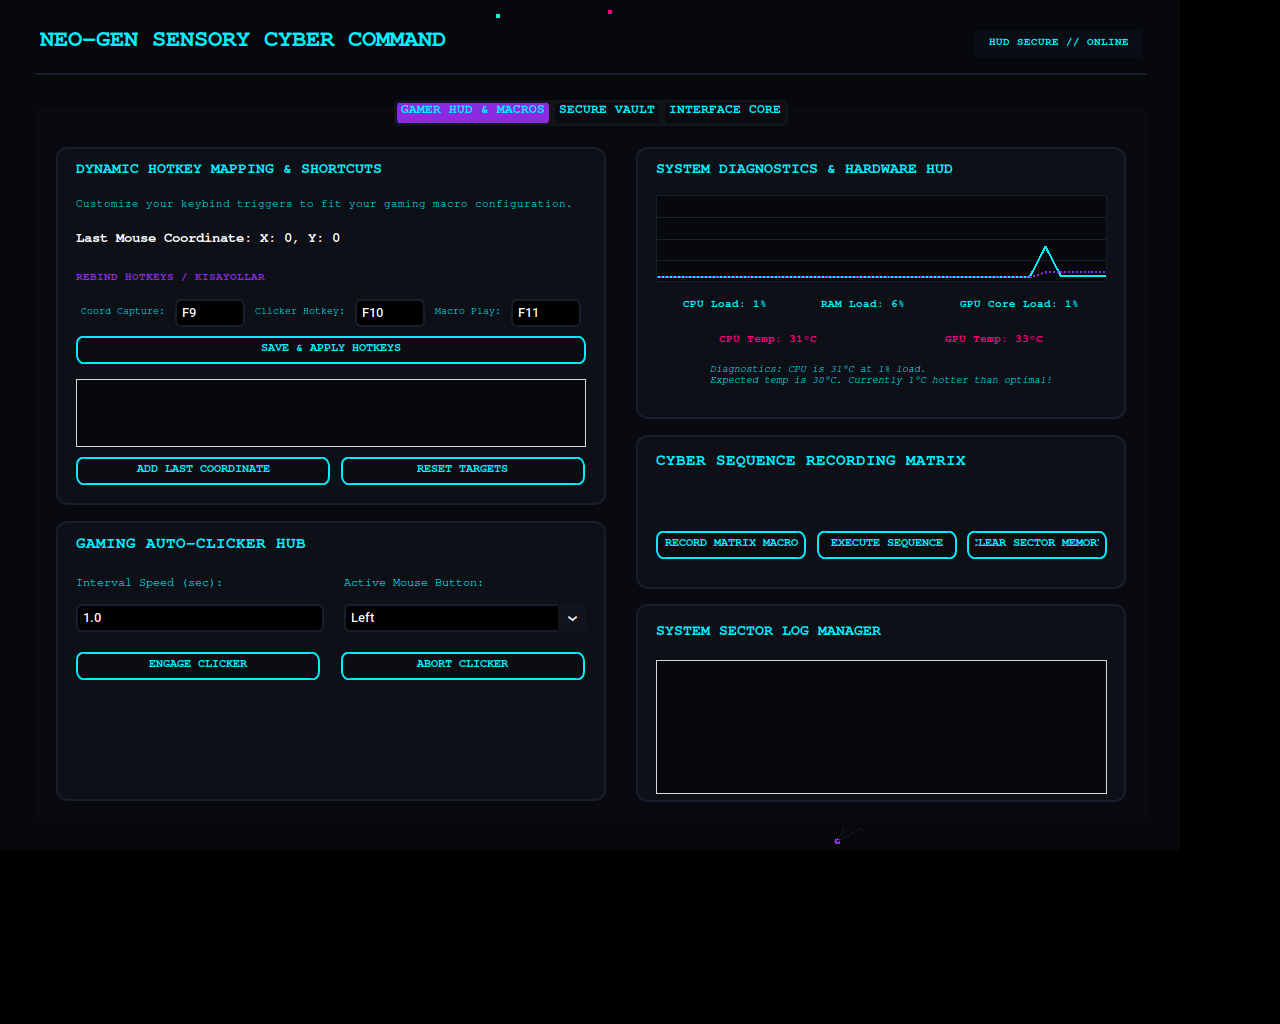
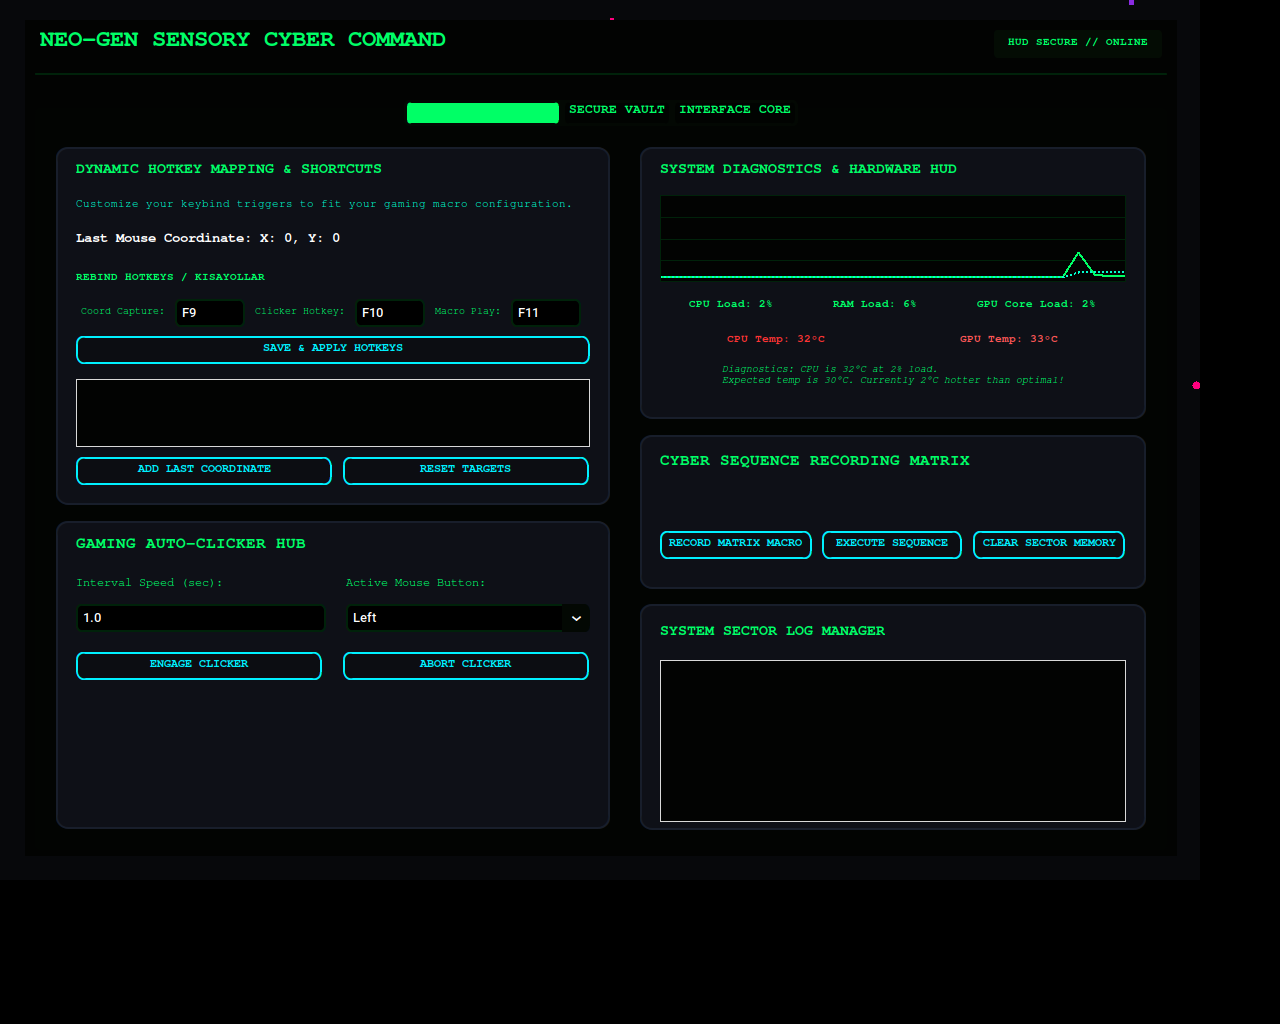
feat: build next-gen modern gaming HUD command center PC Toolbox from scratch

diff --git a/pc_toolbox/main.py b/pc_toolbox/main.py
@@ -14,7 +14,7 @@ import time
 from PIL import Image, ImageGrab
 
 from i18n import I18N
-from widgets import CyberSpaceCanvas, ScanningEffect, CyberButton, CyberCard
+from widgets import DigitalRainCanvas, ScanningEffect, CyberButton, CyberCard
 from automation import GlobalHotkeyTracker, AutoClicker, MacroRecorder, SmartClipboard
 from vault import SecureVault
 
@@ -30,8 +30,8 @@ class NeoGenCyberToolbox(ctk.CTk):
 
         # Configure advanced layout properties
         self.title("NEO-GEN SENSORY CYBER COMMAND")
-        self.geometry("1180x850")
-        self.configure(fg_color="#07080b")
+        self.geometry("1200x880")
+        self.configure(fg_color="#020302")
 
         # Initialize core state and logic modules
         self.i18n = I18N("en")
@@ -64,7 +64,7 @@ class NeoGenCyberToolbox(ctk.CTk):
 
         # Set modern dark blue/violet cyberpunk palette variables
         ctk.set_appearance_mode("Dark")
-        ctk.set_default_color_theme("blue")
+        ctk.set_default_color_theme("green")
 
         self.build_ui()
 
@@ -77,7 +77,7 @@ class NeoGenCyberToolbox(ctk.CTk):
 
     def build_ui(self):
         # Breathtaking background dynamic vector space canvas
-        self.bg_canvas = CyberSpaceCanvas(self)
+        self.bg_canvas = DigitalRainCanvas(self)
         self.bg_canvas.place(x=0, y=0, relwidth=1, relheight=1)
 
         # Main overlay container frame
@@ -92,7 +92,7 @@ class NeoGenCyberToolbox(ctk.CTk):
             header_frame,
             text=self.i18n.get("app_title"),
             font=("Segoe UI Semibold" if os.name == "nt" else "Courier", 24, "bold"),
-            text_color="#00f0ff"
+            text_color="#00ff66"
         )
         self.title_label.pack(side="left", padx=15)
 
@@ -101,8 +101,8 @@ class NeoGenCyberToolbox(ctk.CTk):
             header_frame,
             text="HUD SECURE // ONLINE",
             font=("Consolas" if os.name == "nt" else "Courier", 11, "bold"),
-            text_color="#00f0ff",
-            fg_color="#090d16",
+            text_color="#00ff66",
+            fg_color="#040c04",
             corner_radius=4,
             padx=10,
             pady=4
@@ -110,19 +110,19 @@ class NeoGenCyberToolbox(ctk.CTk):
         self.hud_status_lbl.pack(side="right", padx=15)
 
         # Glowing divider
-        divider = ctk.CTkFrame(self.main_container, height=2, fg_color="#181e2b")
+        divider = ctk.CTkFrame(self.main_container, height=2, fg_color="#00220a")
         divider.pack(fill="x", padx=10, pady=(0, 10))
 
         # Breathtaking Spacious TabView controller
         self.tab_view = ctk.CTkTabview(
             self.main_container,
-            fg_color="#090a0f",
-            segmented_button_fg_color="#12141c",
-            segmented_button_selected_color="#8a2be2",
-            segmented_button_selected_hover_color="#00f0ff",
-            segmented_button_unselected_color="#0a0b10",
-            segmented_button_unselected_hover_color="#181e2b",
-            text_color="#00f0ff"
+            fg_color="#020402",
+            segmented_button_fg_color="#030803",
+            segmented_button_selected_color="#00ff66",
+            segmented_button_selected_hover_color="#00ffcc",
+            segmented_button_unselected_color="#010301",
+            segmented_button_unselected_hover_color="#00220a",
+            text_color="#00ff66"
         )
         self.tab_view._segmented_button.configure(font=("Segoe UI Semibold" if os.name == "nt" else "Courier", 13, "bold"))
         self.tab_view.pack(fill="both", expand=True, padx=10, pady=5)
@@ -145,40 +145,40 @@ class NeoGenCyberToolbox(ctk.CTk):
         card_hk = CyberCard(left_panel)
         card_hk.pack(fill="x", pady=(0, 15), ipady=8)
 
-        self.f9_title = ctk.CTkLabel(card_hk, text="", font=("Courier", 15, "bold"), text_color="#00f0ff")
+        self.f9_title = ctk.CTkLabel(card_hk, text="", font=("Courier", 15, "bold"), text_color="#00ff66")
         self.f9_title.pack(anchor="w", padx=20, pady=(10, 5))
 
-        self.f9_info = ctk.CTkLabel(card_hk, text="", font=("Courier", 11), text_color="#00f0ff", justify="left")
+        self.f9_info = ctk.CTkLabel(card_hk, text="", font=("Courier", 11), text_color="#00ffcc", justify="left")
         self.f9_info.pack(anchor="w", padx=20, pady=2)
 
         self.f9_coords_lbl = ctk.CTkLabel(card_hk, text="", font=("Courier", 14, "bold"), text_color="#ffffff")
         self.f9_coords_lbl.pack(anchor="w", padx=20, pady=(5, 5))
 
         # Dynamic Keybind configuration panel inside the UI
-        self.hk_setup_title = ctk.CTkLabel(card_hk, text="REBIND HOTKEYS / KISAYOLLAR", font=("Courier", 11, "bold"), text_color="#8a2be2")
+        self.hk_setup_title = ctk.CTkLabel(card_hk, text="REBIND HOTKEYS / KISAYOLLAR", font=("Courier", 11, "bold"), text_color="#00ff66")
         self.hk_setup_title.pack(anchor="w", padx=20, pady=(5, 2))
 
         hk_entry_frame = ctk.CTkFrame(card_hk, fg_color="transparent")
         hk_entry_frame.pack(fill="x", padx=20, pady=2)
 
         # Entry for F9 Coord
-        coord_ent_lbl = ctk.CTkLabel(hk_entry_frame, text="Coord Capture:", font=("Courier", 10), text_color="#00f0ff")
+        coord_ent_lbl = ctk.CTkLabel(hk_entry_frame, text="Coord Capture:", font=("Courier", 10), text_color="#00ff66")
         coord_ent_lbl.grid(row=0, column=0, padx=5, pady=2, sticky="w")
-        self.coord_ent_val = ctk.CTkEntry(hk_entry_frame, width=70, fg_color="#000000", border_color="#181e2b", text_color="#ffffff")
+        self.coord_ent_val = ctk.CTkEntry(hk_entry_frame, width=70, fg_color="#000000", border_color="#00220a", text_color="#ffffff")
         self.coord_ent_val.insert(0, "F9")
         self.coord_ent_val.grid(row=0, column=1, padx=5, pady=2)
 
         # Entry for F10 Clicker
-        click_ent_lbl = ctk.CTkLabel(hk_entry_frame, text="Clicker Hotkey:", font=("Courier", 10), text_color="#00f0ff")
+        click_ent_lbl = ctk.CTkLabel(hk_entry_frame, text="Clicker Hotkey:", font=("Courier", 10), text_color="#00ff66")
         click_ent_lbl.grid(row=0, column=2, padx=5, pady=2, sticky="w")
-        self.click_ent_val = ctk.CTkEntry(hk_entry_frame, width=70, fg_color="#000000", border_color="#181e2b", text_color="#ffffff")
+        self.click_ent_val = ctk.CTkEntry(hk_entry_frame, width=70, fg_color="#000000", border_color="#00220a", text_color="#ffffff")
         self.click_ent_val.insert(0, "F10")
         self.click_ent_val.grid(row=0, column=3, padx=5, pady=2)
 
         # Entry for F11 Macro
-        macro_ent_lbl = ctk.CTkLabel(hk_entry_frame, text="Macro Play:", font=("Courier", 10), text_color="#00f0ff")
+        macro_ent_lbl = ctk.CTkLabel(hk_entry_frame, text="Macro Play:", font=("Courier", 10), text_color="#00ff66")
         macro_ent_lbl.grid(row=0, column=4, padx=5, pady=2, sticky="w")
-        self.macro_ent_val = ctk.CTkEntry(hk_entry_frame, width=70, fg_color="#000000", border_color="#181e2b", text_color="#ffffff")
+        self.macro_ent_val = ctk.CTkEntry(hk_entry_frame, width=70, fg_color="#000000", border_color="#00220a", text_color="#ffffff")
         self.macro_ent_val.insert(0, "F11")
         self.macro_ent_val.grid(row=0, column=5, padx=5, pady=2)
 
@@ -188,11 +188,11 @@ class NeoGenCyberToolbox(ctk.CTk):
         # Coordinates Multi-target Sequence list
         self.seq_listbox = tk.Listbox(
             card_hk,
-            bg="#07080b",
-            fg="#00f0ff",
-            selectbackground="#8a2be2",
-            selectforeground="#ffffff",
-            highlightcolor="#00f0ff",
+            bg="#020302",
+            fg="#00ff66",
+            selectbackground="#00ffcc",
+            selectforeground="#020302",
+            highlightcolor="#00ff66",
             height=4,
             borderwidth=1,
             relief="flat",
@@ -211,7 +211,7 @@ class NeoGenCyberToolbox(ctk.CTk):
         card_clicker = CyberCard(left_panel)
         card_clicker.pack(fill="both", expand=True, ipady=10)
 
-        self.click_title = ctk.CTkLabel(card_clicker, text="", font=("Courier", 16, "bold"), text_color="#00f0ff")
+        self.click_title = ctk.CTkLabel(card_clicker, text="", font=("Courier", 16, "bold"), text_color="#00ff66")
         self.click_title.pack(anchor="w", padx=20, pady=(12, 5))
 
         inputs_frame = ctk.CTkFrame(card_clicker, fg_color="transparent")
@@ -219,17 +219,17 @@ class NeoGenCyberToolbox(ctk.CTk):
 
         int_frame = ctk.CTkFrame(inputs_frame, fg_color="transparent")
         int_frame.pack(side="left", fill="x", expand=True, padx=(0, 10))
-        self.lbl_interval = ctk.CTkLabel(int_frame, text="", font=("Courier", 12), text_color="#00f0ff")
+        self.lbl_interval = ctk.CTkLabel(int_frame, text="", font=("Courier", 12), text_color="#00ff66")
         self.lbl_interval.pack(anchor="w")
-        self.click_interval_ent = ctk.CTkEntry(int_frame, placeholder_text="1.0", fg_color="#000000", border_color="#181e2b", text_color="#ffffff")
+        self.click_interval_ent = ctk.CTkEntry(int_frame, placeholder_text="1.0", fg_color="#000000", border_color="#00220a", text_color="#ffffff")
         self.click_interval_ent.insert(0, "1.0")
         self.click_interval_ent.pack(fill="x", pady=5)
 
         type_frame = ctk.CTkFrame(inputs_frame, fg_color="transparent")
         type_frame.pack(side="right", fill="x", expand=True, padx=(10, 0))
-        self.lbl_click_type = ctk.CTkLabel(type_frame, text="", font=("Courier", 12), text_color="#00f0ff")
+        self.lbl_click_type = ctk.CTkLabel(type_frame, text="", font=("Courier", 12), text_color="#00ff66")
         self.lbl_click_type.pack(anchor="w")
-        self.click_type_combo = ctk.CTkComboBox(type_frame, values=["Left", "Right"], fg_color="#000000", border_color="#181e2b", button_color="#12141c", button_hover_color="#181e2b", text_color="#ffffff")
+        self.click_type_combo = ctk.CTkComboBox(type_frame, values=["Left", "Right"], fg_color="#000000", border_color="#00220a", button_color="#030803", button_hover_color="#00220a", text_color="#ffffff")
         self.click_type_combo.pack(fill="x", pady=5)
 
         btn_click_frame = ctk.CTkFrame(card_clicker, fg_color="transparent")
@@ -249,43 +249,43 @@ class NeoGenCyberToolbox(ctk.CTk):
         card_hw = CyberCard(right_panel)
         card_hw.pack(fill="x", pady=(0, 15), ipady=10)
 
-        self.hw_title_lbl = ctk.CTkLabel(card_hw, text="", font=("Courier", 15, "bold"), text_color="#00f0ff")
+        self.hw_title_lbl = ctk.CTkLabel(card_hw, text="", font=("Courier", 15, "bold"), text_color="#00ff66")
         self.hw_title_lbl.pack(anchor="w", padx=20, pady=(10, 5))
 
         # Dynamic Canvas for Visual Charts drawing
-        self.hw_chart_canvas = tk.Canvas(card_hw, height=85, bg="#07080b", highlightthickness=1, highlightbackground="#181e2b")
+        self.hw_chart_canvas = tk.Canvas(card_hw, height=85, bg="#020302", highlightthickness=1, highlightbackground="#00220a")
         self.hw_chart_canvas.pack(fill="x", padx=20, pady=5)
 
         # Numeric values HUD supporting CPU and GPU load metrics
         nums_frame = ctk.CTkFrame(card_hw, fg_color="transparent")
         nums_frame.pack(fill="x", padx=20, pady=5)
 
-        self.hw_cpu_lbl = ctk.CTkLabel(nums_frame, text="CPU Load: --%", font=("Courier", 11, "bold"), text_color="#00f0ff")
+        self.hw_cpu_lbl = ctk.CTkLabel(nums_frame, text="CPU Load: --%", font=("Courier", 11, "bold"), text_color="#00ff66")
         self.hw_cpu_lbl.pack(side="left", fill="x", expand=True)
-        self.hw_ram_lbl = ctk.CTkLabel(nums_frame, text="RAM: --%", font=("Courier", 11, "bold"), text_color="#00f0ff")
+        self.hw_ram_lbl = ctk.CTkLabel(nums_frame, text="RAM: --%", font=("Courier", 11, "bold"), text_color="#00ff66")
         self.hw_ram_lbl.pack(side="left", fill="x", expand=True)
-        self.hw_gpu_lbl = ctk.CTkLabel(nums_frame, text="GPU Load: --%", font=("Courier", 11, "bold"), text_color="#00f0ff")
+        self.hw_gpu_lbl = ctk.CTkLabel(nums_frame, text="GPU Load: --%", font=("Courier", 11, "bold"), text_color="#00ff66")
         self.hw_gpu_lbl.pack(side="left", fill="x", expand=True)
 
         temps_frame = ctk.CTkFrame(card_hw, fg_color="transparent")
         temps_frame.pack(fill="x", padx=20, pady=2)
-        self.hw_temp_lbl = ctk.CTkLabel(temps_frame, text="CPU Temp: --°C", font=("Courier", 11, "bold"), text_color="#ff007f")
+        self.hw_temp_lbl = ctk.CTkLabel(temps_frame, text="CPU Temp: --°C", font=("Courier", 11, "bold"), text_color="#ff3333")
         self.hw_temp_lbl.pack(side="left", fill="x", expand=True)
-        self.hw_gpu_temp_lbl = ctk.CTkLabel(temps_frame, text="GPU Temp: --°C", font=("Courier", 11, "bold"), text_color="#ff007f")
+        self.hw_gpu_temp_lbl = ctk.CTkLabel(temps_frame, text="GPU Temp: --°C", font=("Courier", 11, "bold"), text_color="#ff5555")
         self.hw_gpu_temp_lbl.pack(side="right", fill="x", expand=True)
 
         # Humanized dynamic comparative system diagnostics feedback text
-        self.hw_feedback_lbl = ctk.CTkLabel(card_hw, text="CPU: % -- load under --°C", font=("Courier", 10, "italic"), text_color="#00f0ff", justify="left")
+        self.hw_feedback_lbl = ctk.CTkLabel(card_hw, text="CPU: % -- load under --°C", font=("Courier", 10, "italic"), text_color="#00ff66", justify="left")
         self.hw_feedback_lbl.pack(fill="x", padx=20, pady=(5, 10))
 
         # Card 3: Macro Sequence Recorder
         card_macro = CyberCard(right_panel)
         card_macro.pack(fill="x", pady=(0, 15), ipady=10)
 
-        self.macro_lbl = ctk.CTkLabel(card_macro, text="", font=("Courier", 16, "bold"), text_color="#00f0ff")
+        self.macro_lbl = ctk.CTkLabel(card_macro, text="", font=("Courier", 16, "bold"), text_color="#00ff66")
         self.macro_lbl.pack(anchor="w", padx=20, pady=(15, 5))
 
-        self.macro_status_lbl = ctk.CTkLabel(card_macro, text="", font=("Courier", 12, "italic"), text_color="#00f0ff")
+        self.macro_status_lbl = ctk.CTkLabel(card_macro, text="", font=("Courier", 12, "italic"), text_color="#00ff66")
         self.macro_status_lbl.pack(anchor="w", padx=20, pady=5)
 
         btn_macro_frame = ctk.CTkFrame(card_macro, fg_color="transparent")
@@ -304,16 +304,16 @@ class NeoGenCyberToolbox(ctk.CTk):
         card_utilities = CyberCard(right_panel)
         card_utilities.pack(fill="both", expand=True, ipady=10)
 
-        self.clip_lbl = ctk.CTkLabel(card_utilities, text="", font=("Courier", 15, "bold"), text_color="#00f0ff")
+        self.clip_lbl = ctk.CTkLabel(card_utilities, text="", font=("Courier", 15, "bold"), text_color="#00ff66")
         self.clip_lbl.pack(anchor="w", padx=20, pady=(15, 5))
 
         self.clip_listbox = tk.Listbox(
             card_utilities,
-            bg="#07080b",
-            fg="#00f0ff",
-            selectbackground="#8a2be2",
-            selectforeground="#ffffff",
-            highlightcolor="#00f0ff",
+            bg="#020302",
+            fg="#00ff66",
+            selectbackground="#00ffcc",
+            selectforeground="#020302",
+            highlightcolor="#00ffcc",
             borderwidth=1,
             relief="flat",
             font=("Courier", 10, "bold")
@@ -345,17 +345,17 @@ class NeoGenCyberToolbox(ctk.CTk):
         card_crypto = CyberCard(v_left)
         card_crypto.pack(fill="both", expand=True, pady=(0, 15), ipady=10)
 
-        self.enc_title_lbl = ctk.CTkLabel(card_crypto, text="", font=("Courier", 16, "bold"), text_color="#00f0ff")
+        self.enc_title_lbl = ctk.CTkLabel(card_crypto, text="", font=("Courier", 16, "bold"), text_color="#00ff66")
         self.enc_title_lbl.pack(anchor="w", padx=20, pady=(15, 10))
 
-        self.key_lbl_title = ctk.CTkLabel(card_crypto, text="", font=("Courier", 12), text_color="#00f0ff")
+        self.key_lbl_title = ctk.CTkLabel(card_crypto, text="", font=("Courier", 12), text_color="#00ff66")
         self.key_lbl_title.pack(anchor="w", padx=20)
-        self.vault_key_ent = ctk.CTkEntry(card_crypto, show="*", fg_color="#000000", border_color="#181e2b", text_color="#ffffff")
+        self.vault_key_ent = ctk.CTkEntry(card_crypto, show="*", fg_color="#000000", border_color="#00220a", text_color="#ffffff")
         self.vault_key_ent.pack(fill="x", padx=20, pady=5)
 
-        self.msg_input_lbl = ctk.CTkLabel(card_crypto, text="", font=("Courier", 12), text_color="#00f0ff")
+        self.msg_input_lbl = ctk.CTkLabel(card_crypto, text="", font=("Courier", 12), text_color="#00ffcc")
         self.msg_input_lbl.pack(anchor="w", padx=20)
-        self.vault_text_box = ctk.CTkTextbox(card_crypto, height=130, fg_color="#000000", border_color="#181e2b", border_width=1, text_color="#ffffff", font=("Courier", 11, "bold"))
+        self.vault_text_box = ctk.CTkTextbox(card_crypto, height=130, fg_color="#000000", border_color="#00220a", border_width=1, text_color="#ffffff", font=("Courier", 11, "bold"))
         self.vault_text_box.pack(fill="both", expand=True, padx=20, pady=5)
 
         crypto_btns = ctk.CTkFrame(card_crypto, fg_color="transparent")
@@ -369,10 +369,10 @@ class NeoGenCyberToolbox(ctk.CTk):
         card_archive = CyberCard(v_left)
         card_archive.pack(fill="x", ipady=10)
 
-        self.arch_title_lbl = ctk.CTkLabel(card_archive, text="", font=("Courier", 16, "bold"), text_color="#00f0ff")
+        self.arch_title_lbl = ctk.CTkLabel(card_archive, text="", font=("Courier", 16, "bold"), text_color="#00ff66")
         self.arch_title_lbl.pack(anchor="w", padx=20, pady=(15, 5))
 
-        self.arch_progress = ctk.CTkProgressBar(card_archive, progress_color="#00f0ff", fg_color="#090d16")
+        self.arch_progress = ctk.CTkProgressBar(card_archive, progress_color="#00ff66", fg_color="#030803")
         self.arch_progress.set(0)
         self.arch_progress.pack(fill="x", padx=20, pady=10)
 
@@ -391,7 +391,7 @@ class NeoGenCyberToolbox(ctk.CTk):
         card_format = CyberCard(v_right)
         card_format.pack(fill="x", pady=(0, 15), ipady=10)
 
-        self.conv_lbl_title = ctk.CTkLabel(card_format, text="", font=("Courier", 15, "bold"), text_color="#00f0ff")
+        self.conv_lbl_title = ctk.CTkLabel(card_format, text="", font=("Courier", 15, "bold"), text_color="#00ff66")
         self.conv_lbl_title.pack(anchor="w", padx=20, pady=(15, 5))
         self.btn_convert_media = CyberButton(card_format, text="", command=self.vault_convert_media)
         self.btn_convert_media.pack(fill="x", padx=20, pady=10)
@@ -400,7 +400,7 @@ class NeoGenCyberToolbox(ctk.CTk):
         card_ops = CyberCard(v_right)
         card_ops.pack(fill="both", expand=True, ipady=10)
 
-        self.cyber_ops_lbl = ctk.CTkLabel(card_ops, text="", font=("Courier", 15, "bold"), text_color="#00f0ff")
+        self.cyber_ops_lbl = ctk.CTkLabel(card_ops, text="", font=("Courier", 15, "bold"), text_color="#00ff66")
         self.cyber_ops_lbl.pack(anchor="w", padx=20, pady=(15, 10))
 
         ops_grid = ctk.CTkFrame(card_ops, fg_color="transparent")
@@ -426,7 +426,7 @@ class NeoGenCyberToolbox(ctk.CTk):
         locale_card = CyberCard(tab)
         locale_card.pack(fill="both", expand=True, padx=40, pady=40, ipady=20)
 
-        self.lang_title_lbl = ctk.CTkLabel(locale_card, text="", font=("Courier", 18, "bold"), text_color="#00f0ff")
+        self.lang_title_lbl = ctk.CTkLabel(locale_card, text="", font=("Courier", 18, "bold"), text_color="#00ff66")
         self.lang_title_lbl.pack(pady=30)
 
         grid_frame = ctk.CTkFrame(locale_card, fg_color="transparent")
@@ -576,7 +576,7 @@ class NeoGenCyberToolbox(ctk.CTk):
                 # Render clean structural grid line markers
                 for k in range(1, 4):
                     grid_y = h * (k / 4)
-                    self.hw_chart_canvas.create_line(0, grid_y, w, grid_y, fill="#181e2b", width=1)
+                    self.hw_chart_canvas.create_line(0, grid_y, w, grid_y, fill="#00220a", width=1)
 
                 # Plot CPU load vector line (Neon Mint)
                 for i in range(29):
@@ -584,15 +584,15 @@ class NeoGenCyberToolbox(ctk.CTk):
                     y1 = h - (self.cpu_history[i] / 100 * h * 0.8) - 5
                     x2 = (i + 1) * step
                     y2 = h - (self.cpu_history[i+1] / 100 * h * 0.8) - 5
-                    self.hw_chart_canvas.create_line(x1, y1, x2, y2, fill="#00f0ff", width=1.5)
+                    self.hw_chart_canvas.create_line(x1, y1, x2, y2, fill="#00ff66", width=1.5)
 
-                # Plot RAM load vector line (Aurora Violet)
+                # Plot RAM load vector line (Aurora Green)
                 for i in range(29):
                     x1 = i * step
                     y1 = h - (self.ram_history[i] / 100 * h * 0.8) - 5
                     x2 = (i + 1) * step
                     y2 = h - (self.ram_history[i+1] / 100 * h * 0.8) - 5
-                    self.hw_chart_canvas.create_line(x1, y1, x2, y2, fill="#8a2be2", width=1.5, dash=(2, 2))
+                    self.hw_chart_canvas.create_line(x1, y1, x2, y2, fill="#00ffcc", width=1.5, dash=(2, 2))
 
             # Update dynamic labels
             self.hw_cpu_lbl.configure(text=self.i18n.get("hw_cpu", int(cpu_val)))
@@ -796,15 +796,15 @@ class NeoGenCyberToolbox(ctk.CTk):
         steg_win = ctk.CTkToplevel(self)
         steg_win.title("Steganography Panel")
         steg_win.geometry("520x420")
-        steg_win.configure(fg_color="#07080b")
+        steg_win.configure(fg_color="#020302")
 
         # Bring to top
         steg_win.attributes("-topmost", True)
 
-        lbl = ctk.CTkLabel(steg_win, text="STEGANOGRAPHY WORKSTATION", font=("Courier", 16, "bold"), text_color="#00f0ff")
+        lbl = ctk.CTkLabel(steg_win, text="STEGANOGRAPHY WORKSTATION", font=("Courier", 16, "bold"), text_color="#00ff66")
         lbl.pack(pady=15)
 
-        txt_box = ctk.CTkTextbox(steg_win, height=110, fg_color="#000000", text_color="#ffffff", border_color="#181e2b", border_width=1, font=("Courier", 11, "bold"))
+        txt_box = ctk.CTkTextbox(steg_win, height=110, fg_color="#000000", text_color="#ffffff", border_color="#00220a", border_width=1, font=("Courier", 11, "bold"))
         txt_box.pack(fill="x", padx=20, pady=5)
 
         def handle_hide():
